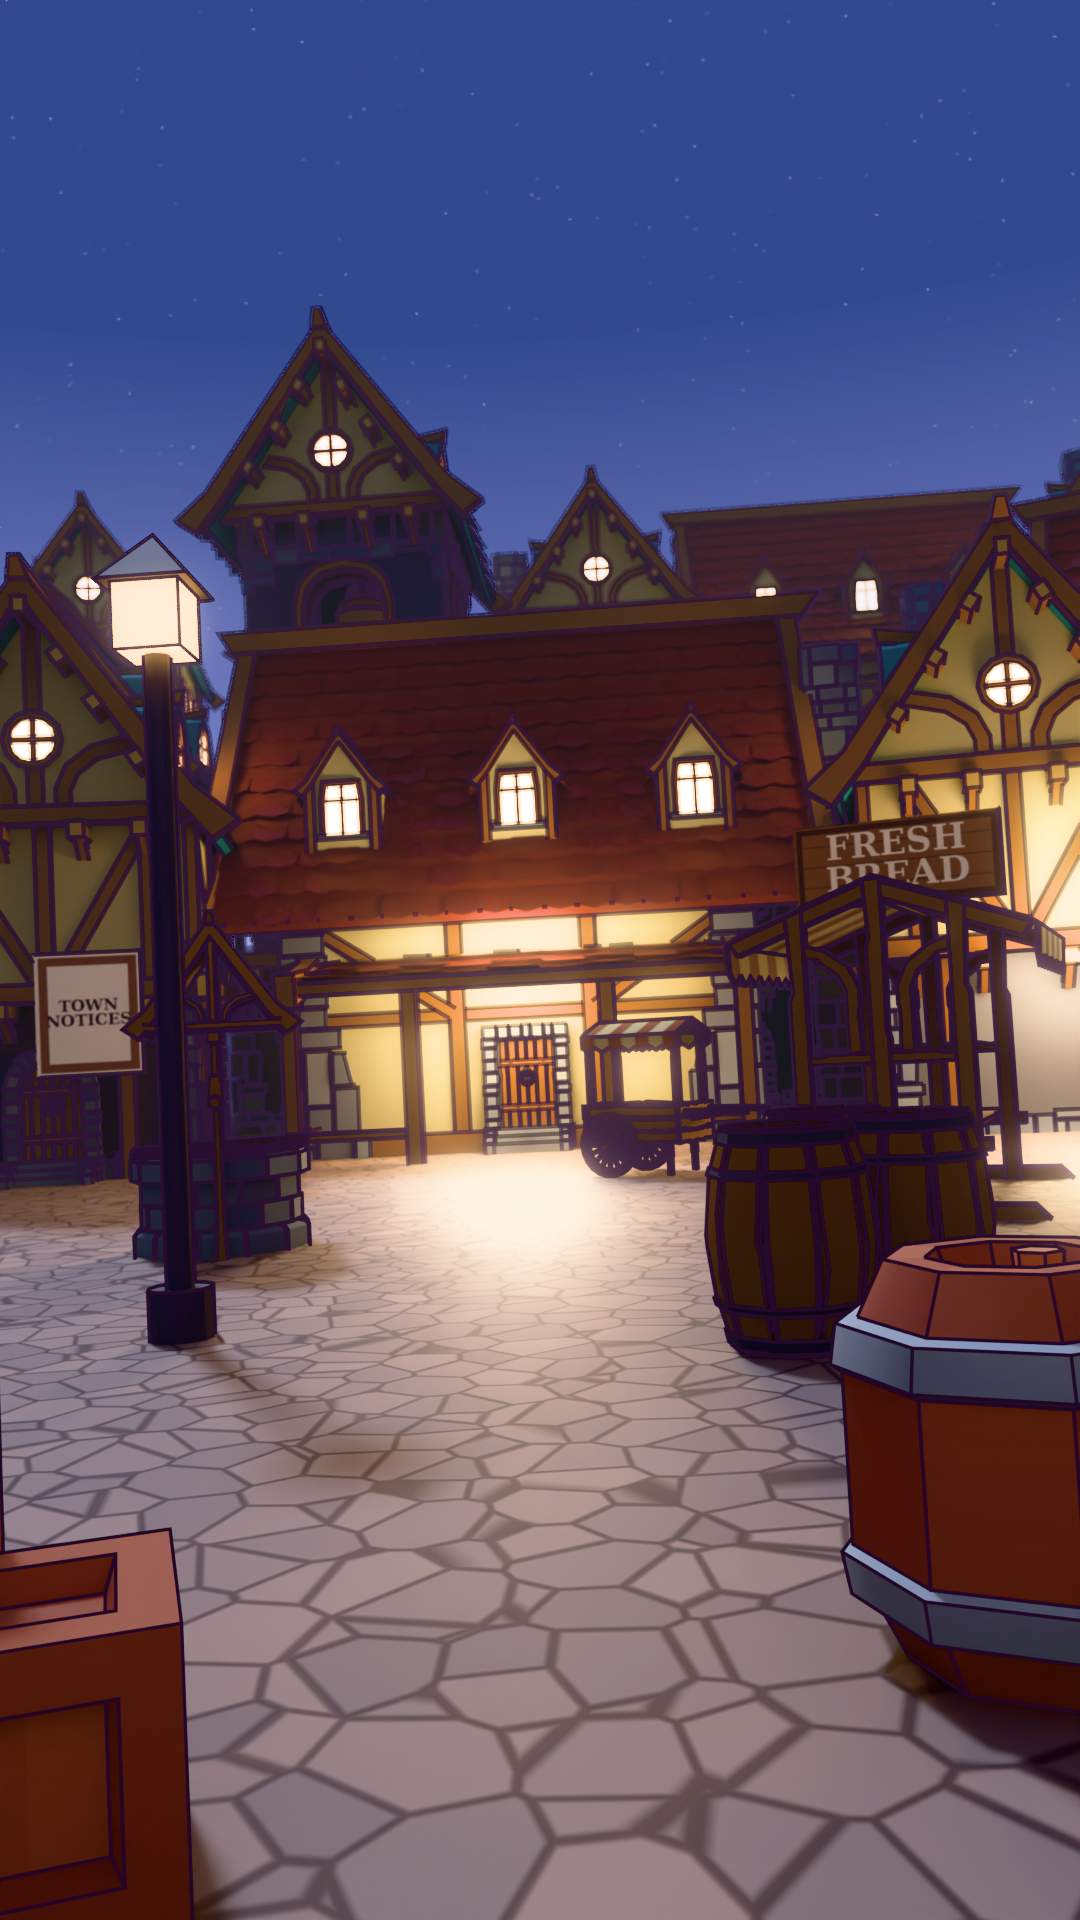
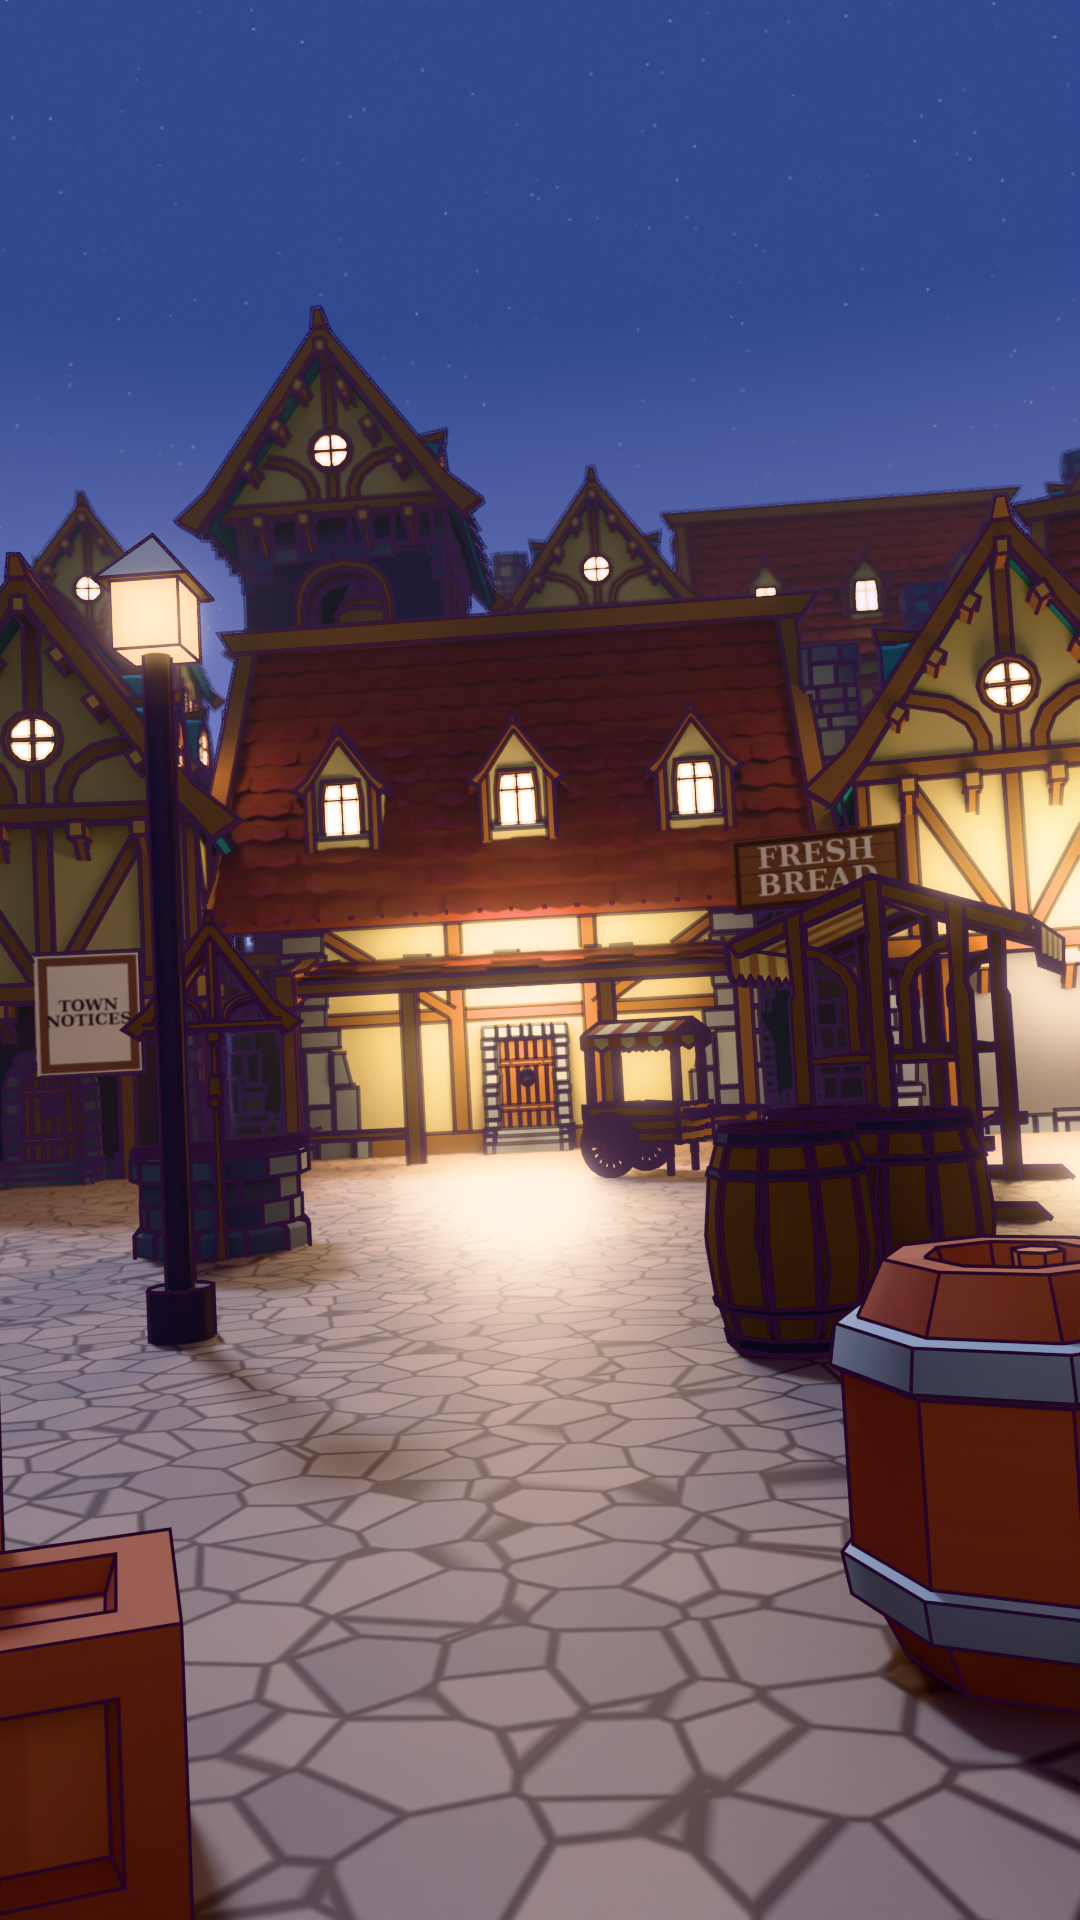
sets: village review round 3 fixes (cool night cobbles, dim moon, amber lamp, warm golden recipe, haze range, reframes); BACKLOG and LESSONS updates
Claude-Session: https://claude.ai/code/session_01CUE844swkk3yewWEQLWYRj

Changed region(s): [[0.6722, 0.4062, 0.9472, 0.5], [0.0917, 0.2812, 0.1833, 0.3438]]

diff --git a/blender/sets/village/build.py b/blender/sets/village/build.py
@@ -58,22 +58,28 @@ C.lamp_post(-1.55, 1.6)
 C.point((-0.6, 12.0, 2.2), power=500, radius=1.0)    # inn doorway spill
 C.point((5.6, 10.5, 2.0), power=250, radius=1.0)
 
-def per_light(ln):   # hill reads green by day, deep blue at night
+COB = bpy.data.materials['cobble'].node_tree.nodes['tint'].color_ramp.elements
+def per_light(ln):   # hill reads green by day, deep blue at night; cobbles cool at night so only lamp pools are warm
+    cool = ln == 'night'
+    COB[0].color = (0.14, 0.14, 0.22, 1) if cool else (0.20, 0.15, 0.13, 1)
+    COB[1].color = (0.22, 0.22, 0.32, 1) if cool else (0.34, 0.24, 0.18, 1)
     HILL.inputs['Base Color'].default_value = {'day': (0.16, 0.36, 0.14, 1), 'golden': (0.20, 0.22, 0.10, 1),
                                                'night': (0.05, 0.07, 0.14, 1)}[ln]
 
 CAMS = {
-    'wide': dict(loc=(0.7, -5.4, 1.35), target=(0.0, 6.0, 2.0), lens=27, roll=3, stand=(0.35, -0.2, 0), fstop=2.0,
+    'wide': dict(loc=(0.7, -5.4, 1.35), target=(0.0, 6.0, 2.0), lens=27, roll=3, stand=(0.35, -0.2, 0), fstop=2.0, haze_range=(4, 45),
                  per_light=per_light),
-    'well_close': dict(loc=(-0.15, 1.15, 1.45), target=(-1.75, 4.9, 1.25), lens=38, roll=-4, stand=(-1.15, 4.1, 0),
+    'well_close': dict(loc=(-0.15, 1.15, 1.45), target=(-1.4, 4.9, 1.25), lens=38, roll=-4, stand=(-1.15, 4.1, 0),
                        fstop=2.4, ink_fade=(4.5, 9.0, 0.85), haze_range=(3, 60), per_light=per_light),
     'square_med': dict(loc=(0.75, -3.4, 1.3), target=(0.1, 6.0, 1.75), lens=30, roll=2, stand=(0.35, -0.2, 0), fstop=2.4,
                        ink_fade=(6, 25, 0.5), per_light=per_light),
-    'street_med': dict(loc=(0.45, -32.5, 1.3), target=(-0.1, 0.0, 2.4), lens=30, roll=0, stand=(0.1, -29.6, 0), fstop=2.4,
+    'street_med': dict(loc=(0.45, -32.5, 1.3), target=(-0.1, 0.0, 2.4), lens=30, roll=0, stand=(0.25, -29.6, 0), fstop=2.4, haze_range=(4, 45),
                        ink_fade=(6, 30, 0.5), per_light=per_light),
-    'street_low': dict(loc=(3.2, -5.8, 0.45), target=(0.8, 8.0, 2.8), lens=21, roll=-3, stand=(3.15, -3.1, 0), fstop=2.8,
+    'street_low': dict(loc=(3.2, -5.8, 0.45), target=(0.8, 8.0, 2.8), lens=21, roll=-3, stand=(2.45, -0.7, 0), fstop=2.8,
                        per_light=per_light),
 }
-LIGHTS = {'day': dict(az=25, elev=48, grade_sat=1.12, grade_gain=0.97), 'golden': dict(az=-20, elev=14),
-          'night': dict(az=210, grade_sat=0.92, grade_gain=1.12)}
+LIGHTS = {'day': dict(az=25, elev=48, grade_sat=1.12, grade_gain=0.97),
+          'golden': dict(az=-20, elev=14, sun_e=11.0, sun=(1.0, 0.50, 0.18), amb=(0.40, 0.50, 1.0), amb_e=0.32, grade_warm=(1.04, 1.0, 0.9),
+                         clouds=(1.0, 0.72, 0.45), sky=[(0.0, (1.0, 0.70, 0.32)), (0.10, (1.0, 0.58, 0.30)), (0.30, (0.50, 0.58, 0.88)), (0.60, (0.24, 0.40, 0.82))]),
+          'night': dict(az=210, fill_e=60, sun_e=0.6, grade_sat=0.95, grade_gain=1.08)}
 C.main('village', CAMS, LIGHTS)

diff --git a/blender/sets/common.py b/blender/sets/common.py
@@ -103,7 +103,7 @@ def cobble_mat(scale=3.6, c0=(0.30, 0.22, 0.16), c1=(0.42, 0.32, 0.22)):
     rmp = n.new('ShaderNodeValToRGB'); rmp.color_ramp.elements[0].position = 0.02; rmp.color_ramp.elements[1].position = 0.06
     rmp.color_ramp.elements[0].color = (0.30, 0.24, 0.24, 1); rmp.color_ramp.elements[1].color = (1, 1, 1, 1)
     l.new(vor.outputs['Distance'], rmp.inputs['Fac'])
-    tint = n.new('ShaderNodeValToRGB')
+    tint = n.new('ShaderNodeValToRGB'); tint.name = 'tint'
     tint.color_ramp.elements[0].color = (*c0, 1); tint.color_ramp.elements[1].color = (*c1, 1)
     l.new(vor2.outputs['Color'], tint.inputs['Fac'])
     mul = n.new('ShaderNodeMixRGB'); mul.blend_type = 'MULTIPLY'; mul.inputs['Fac'].default_value = 1
@@ -237,7 +237,7 @@ def point(loc, color=(1.0, 0.62, 0.30), power=500, radius=0.3):
 def lamp_post(x, y, h=3.4, glow_col=(1.0, 0.40, 0.08), power=150):
     """Simple stylised iron street lamp with a warm practical."""
     iron = bpy.data.materials.get('iron') or mat('iron', (0.04, 0.04, 0.06), rough=0.6)
-    glow = bpy.data.materials.get('lampglow') or emissive(mat('lampglow', glow_col, 0.3), glow_col, 0.3)   # stays amber, never white
+    glow = bpy.data.materials.get('lampglow') or emissive(mat('lampglow', glow_col, 0.15), glow_col, 0.15)   # stays amber, never white
     cyl(0.07, h, (x, y, h / 2), iron); cyl(0.16, 0.25, (x, y, 0.12), iron)
     bpy.ops.mesh.primitive_cube_add(size=0.34, location=(x, y, h + 0.15)); assign(bpy.context.object, glow)
     bpy.ops.mesh.primitive_cone_add(vertices=4, radius1=0.33, depth=0.28, location=(x, y, h + 0.46),

diff --git a/BACKLOG.md b/BACKLOG.md
@@ -16,10 +16,13 @@ Take the highest-priority open item in **your area**. Tick it (`[x]`) with the c
 - [ ] P1 New set `harbour` (Quaternius ships pack + water + pier): cams `pier_wide`, `deck`, and lights `day`, `storm`, `night`.
 - [ ] P1 New set `road` (a modern street or highway, Quaternius street pack): cams `roadside`, `in_car`, and lights `day`, `golden`.
 - [ ] P2 New set `interior` (a room, Quaternius house interior): cams `room_wide`, `table_close`.
-- [ ] P2 Shared `blender/sets/common.py`: sky, lights, ink, materials and plate JSON writer, so sets stay consistent.
-- [ ] P1 (requested by engine) Plate JSON should include `horizon_y`, `light_dir` and `tint` (scene2.py writes only ground_x/ground_y/px_per_m). The engine defaults them for now.
+- [x] P2 Shared `blender/sets/common.py`: sky, lights, ink, materials and plate JSON writer, so sets stay consistent. (3781ddf; plus depth haze, warm glow + grade post, `sign()`, `--repost`, `targets`; `check.py` makes composites and contact sheets)
+- [x] P1 (requested by engine) Plate JSON should include `horizon_y`, `light_dir` and `tint` (done in common.py: also `ground_x`, `stand_x`, `targets`, `view`) (scene2.py writes only ground_x/ground_y/px_per_m). The engine defaults them for now.
+- [ ] P2 `track` review leftovers after 4 rounds: golden has a cream haze that flattens the warm key against cool shadow (keep the sky saturated, cool the fill), day asphalt reads lavender (go neutral blue-grey), golden bloom smears the kerb in `track_top`, a soft purple shadow blob sits in `track_wide` golden, the red pit-wall block reads hot, and `pit_ots` has a cluttered grandstand behind the head.
+- [ ] P2 `harbour` and `road` have first-draft `build.py` files (ship deck raycast, pier, water per light; KayKit city street, a primitive car interior for `in_car`). They need low-res iteration, plates and review.
+- [ ] P2 Ink density (`frame_stats` edge) stays at 0.01-0.03 in close-ups with DOF; the reference is about 0.05. Consider a second, thicker near-silhouette lineset, or less DOF in close cams.
 - [ ] P3 Parallax plates: a separate foreground layer PNG, so the engine can move it against the background.
-- [ ] P1 (for `bike-countersteer`) A NEW `track` set: a riding-school track with a pit lane and a grass run-off. Cams: `track_wide`, `track_med`, `track_top` (top-down), `pit_med`, `pit_ots` (over the shoulder), `bike_close`, `bike_chase` (behind the rider), `grips_close`, `rider_close`. Lights: `day` and `golden`. Signs: "BODY-STEERING CHALLENGE" banner, "CORNERS MADE: 0" lap board, and a chalkboard "PUSH LEFT → GO LEFT" with a top-view bar/wheel drawing.
+- [x] P1 (for `bike-countersteer`) A NEW `track` set (8ea7e8c; review round 4: colour 7, lighting 6, ink 7, depth 8, composition 6, reads 8): a riding-school track with a pit lane and a grass run-off. Cams: `track_wide`, `track_med`, `track_top` (top-down), `pit_med`, `pit_ots` (over the shoulder), `bike_close`, `bike_chase` (behind the rider), `grips_close`, `rider_close`. Lights: `day` and `golden`. Signs: "BODY-STEERING CHALLENGE" banner, "CORNERS MADE: 0" lap board, and a chalkboard "PUSH LEFT → GO LEFT" with a top-view bar/wheel drawing.
 - [ ] P1 (for `bike-countersteer`) `village`: a `street_med` cam (`day`, `golden`) on a street a bicycle can ride down.
 
 ## characters (`characters/`): main cast, bean-head style (owner: wardrobe session, from 2026-11-19)

diff --git a/LESSONS.md b/LESSONS.md
@@ -34,6 +34,11 @@ Each line is a mistake already made once, phrased as an instruction. Add a line 
 - `color_ramp.elements` are re-sorted by position after `elements.new()`. Index the elements by position, not by creation order.
 - Frame for medium shots: a 1.75 m character should fill about 55-65% of the frame height, as most reference frames do. Wide shots with tiny characters are the exception.
 
+- Ink that is 2-3 px at 1080 wide vanishes at phone and contact-sheet size. On open sets with big distances, use about 4.8 px, keep far lines at 0.6 thickness, and widen the distance fade.
+- Flat planes (road, kerbs) only get outlines from Freestyle *border* edges, and anything lying on top (painted line strips) hides those borders. Ink the top strips too.
+- Golden hour needs a strong orange sun (energy ~12) with a weak blue ambient, plus a warm grade. A pink-lavender sky and haze alone reads as "pastel dusk", not warm-against-cool.
+- Lamp glass must stay amber: keep its emission low (≤ 0.3 × the night multiplier), or it clips to white under Khronos PBR Neutral.
+
 ## Audio
 - ElevenLabs free tier: always dry-run `tts.py` first and read the extracted text. The voice-over parser once grabbed "Facts and sources (… the voice-over)" instead of "## Voice-over". Prefer a heading that *starts* with "Voice-over", and take only the list items.
 - Cache the raw TTS response (`_tts_response.json`) and re-process from it. Trimming, pause tightening and word refinement must never cost characters.
@@ -74,3 +79,5 @@ Each line is a mistake already made once, phrased as an instruction. Add a line 
 - Generate `shots.json` from a script that names anchor words instead of hand-typed word indexes, and that checks every voice-over line has a shot with identical text, plus word counts and the shot mix.
 - Keep the script at or under about 232 words (≤ 63 s), so the voice has headroom under the 240-word / 65 s cap.
 - Never `git stash drop` after a `git stash pop` that hit a conflict: the pop did not apply. Check `git stash list` and `git diff` first. (A dropped stash can be recovered with `git fsck --no-reflog | grep 'dangling commit'`.)
+- Keep raw renders (`plates/_tmp/*_raw.png`) and the depth pass, so grade and haze fixes are a `--repost` (Python only) instead of a full re-render.
+- Never `git stash` while background renders are queued: a later process in the queue starts from the stashed (old) files.
